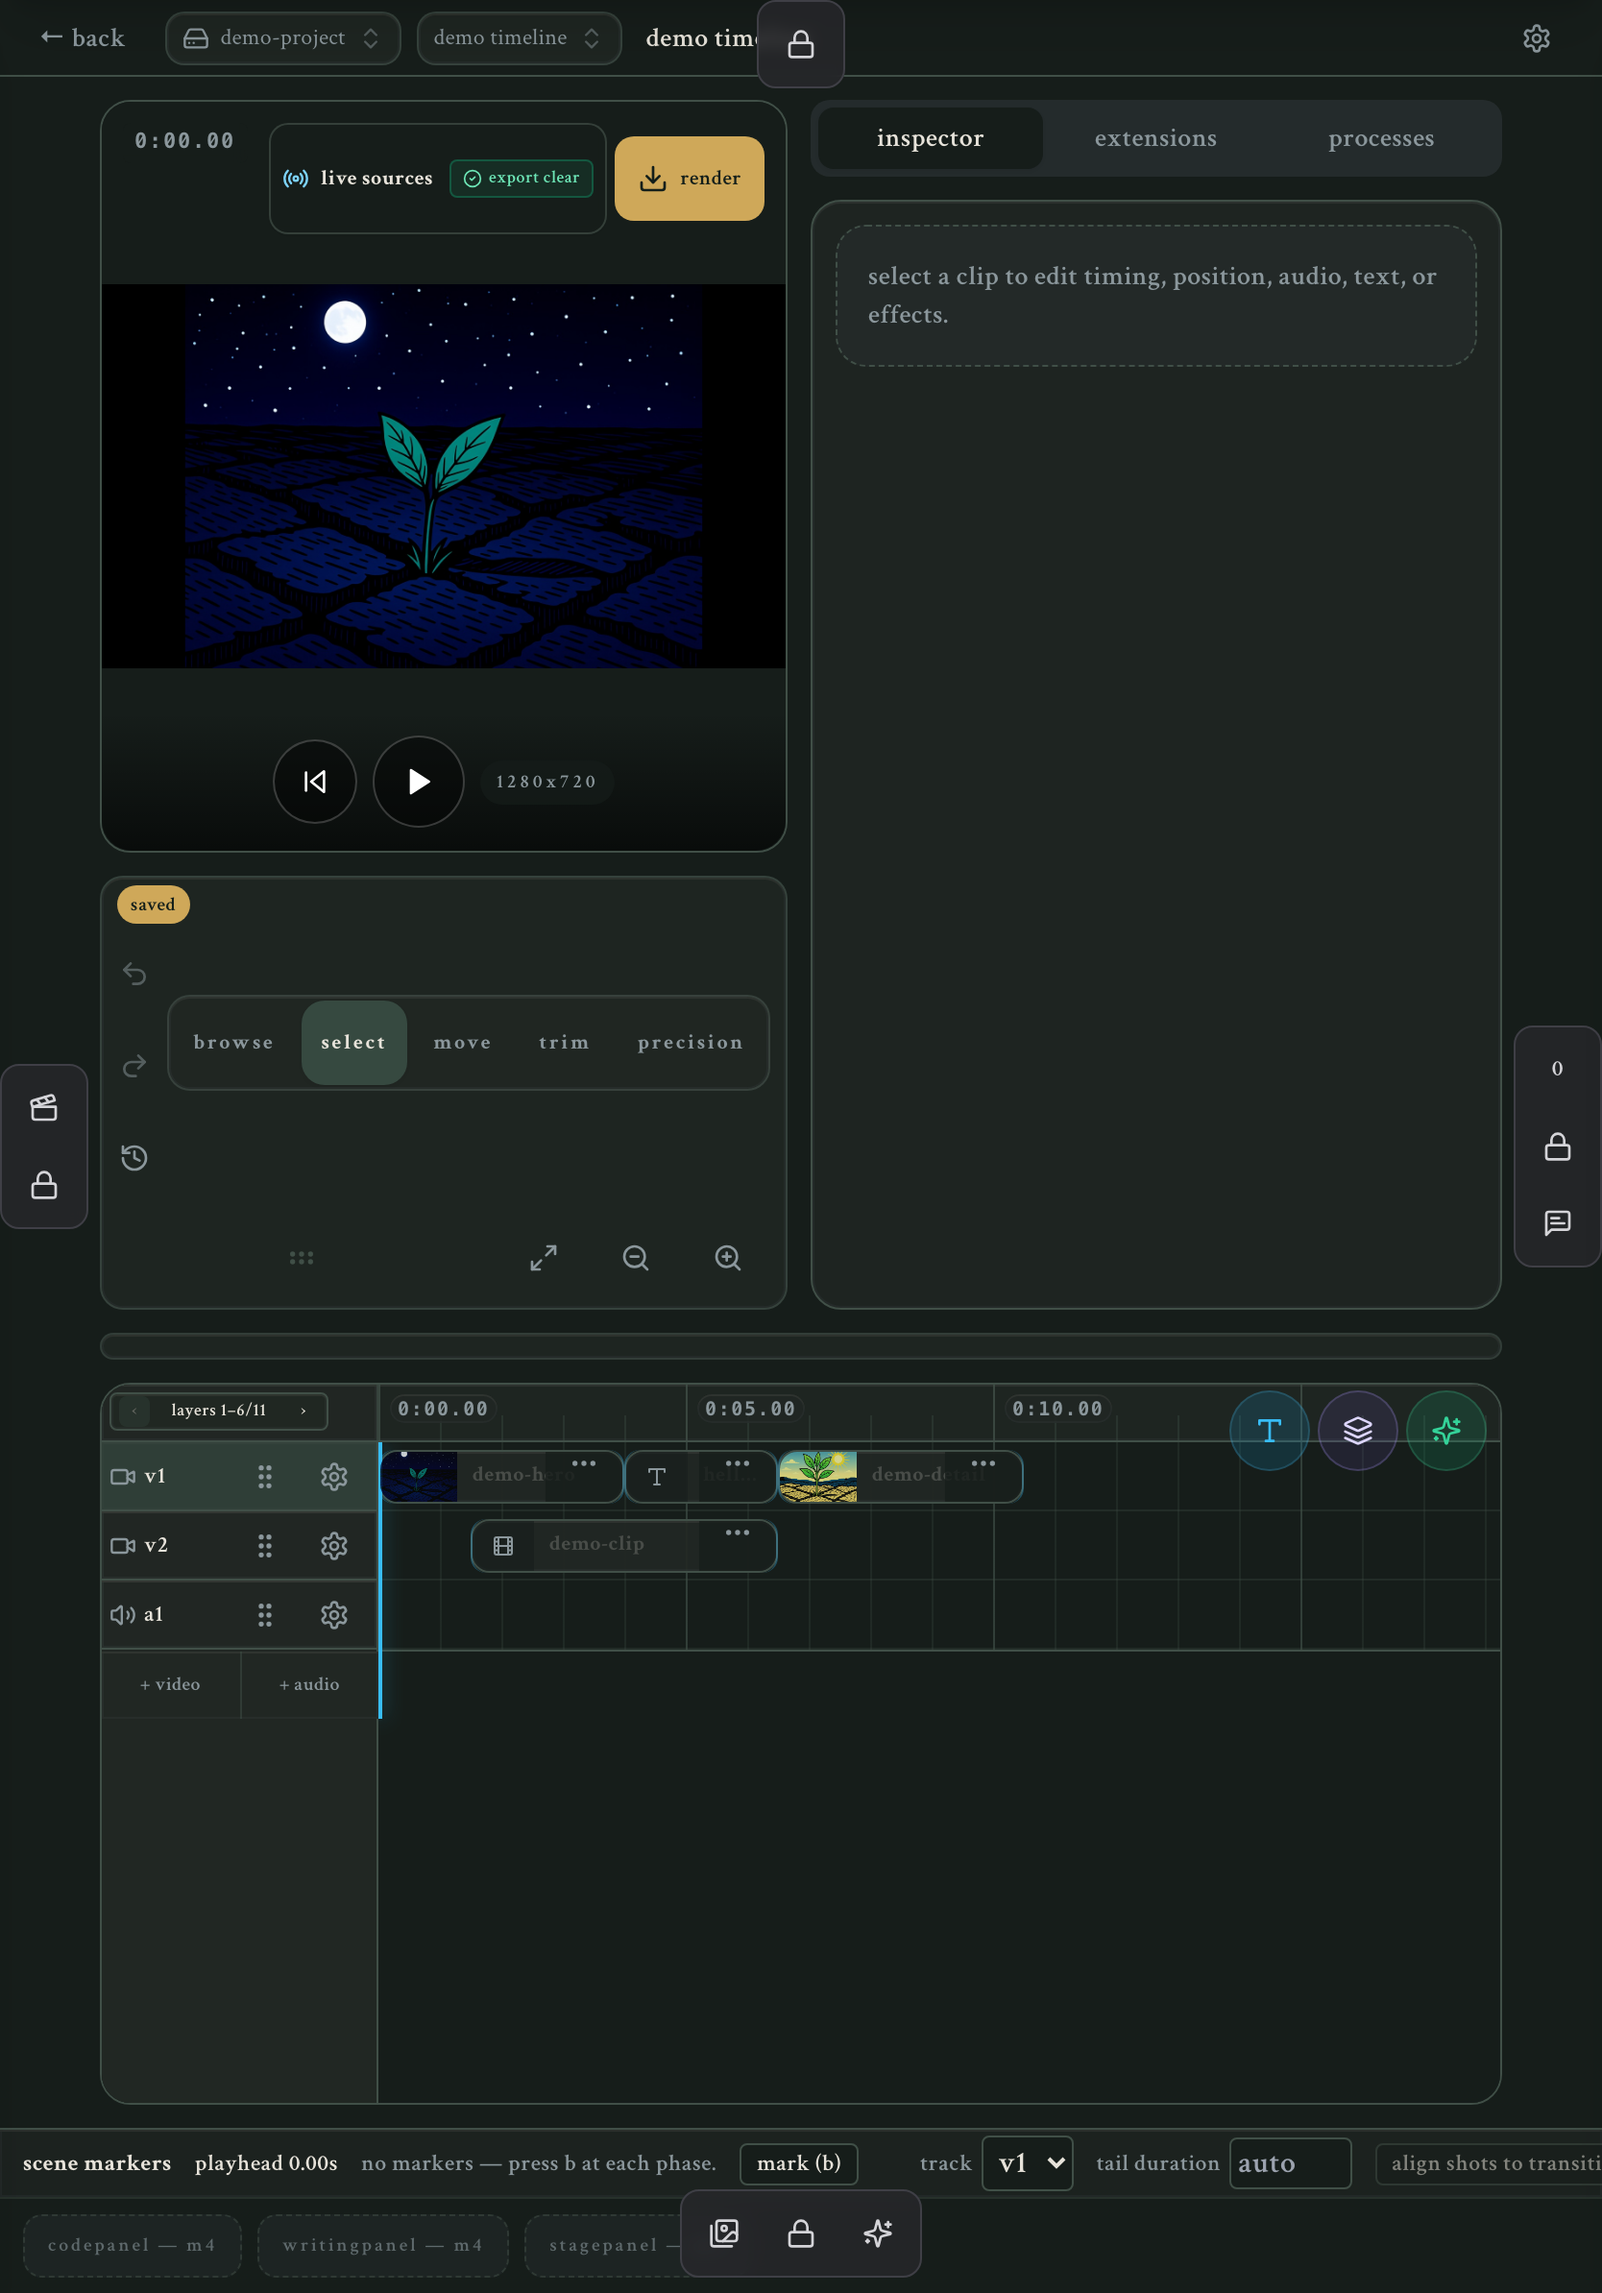
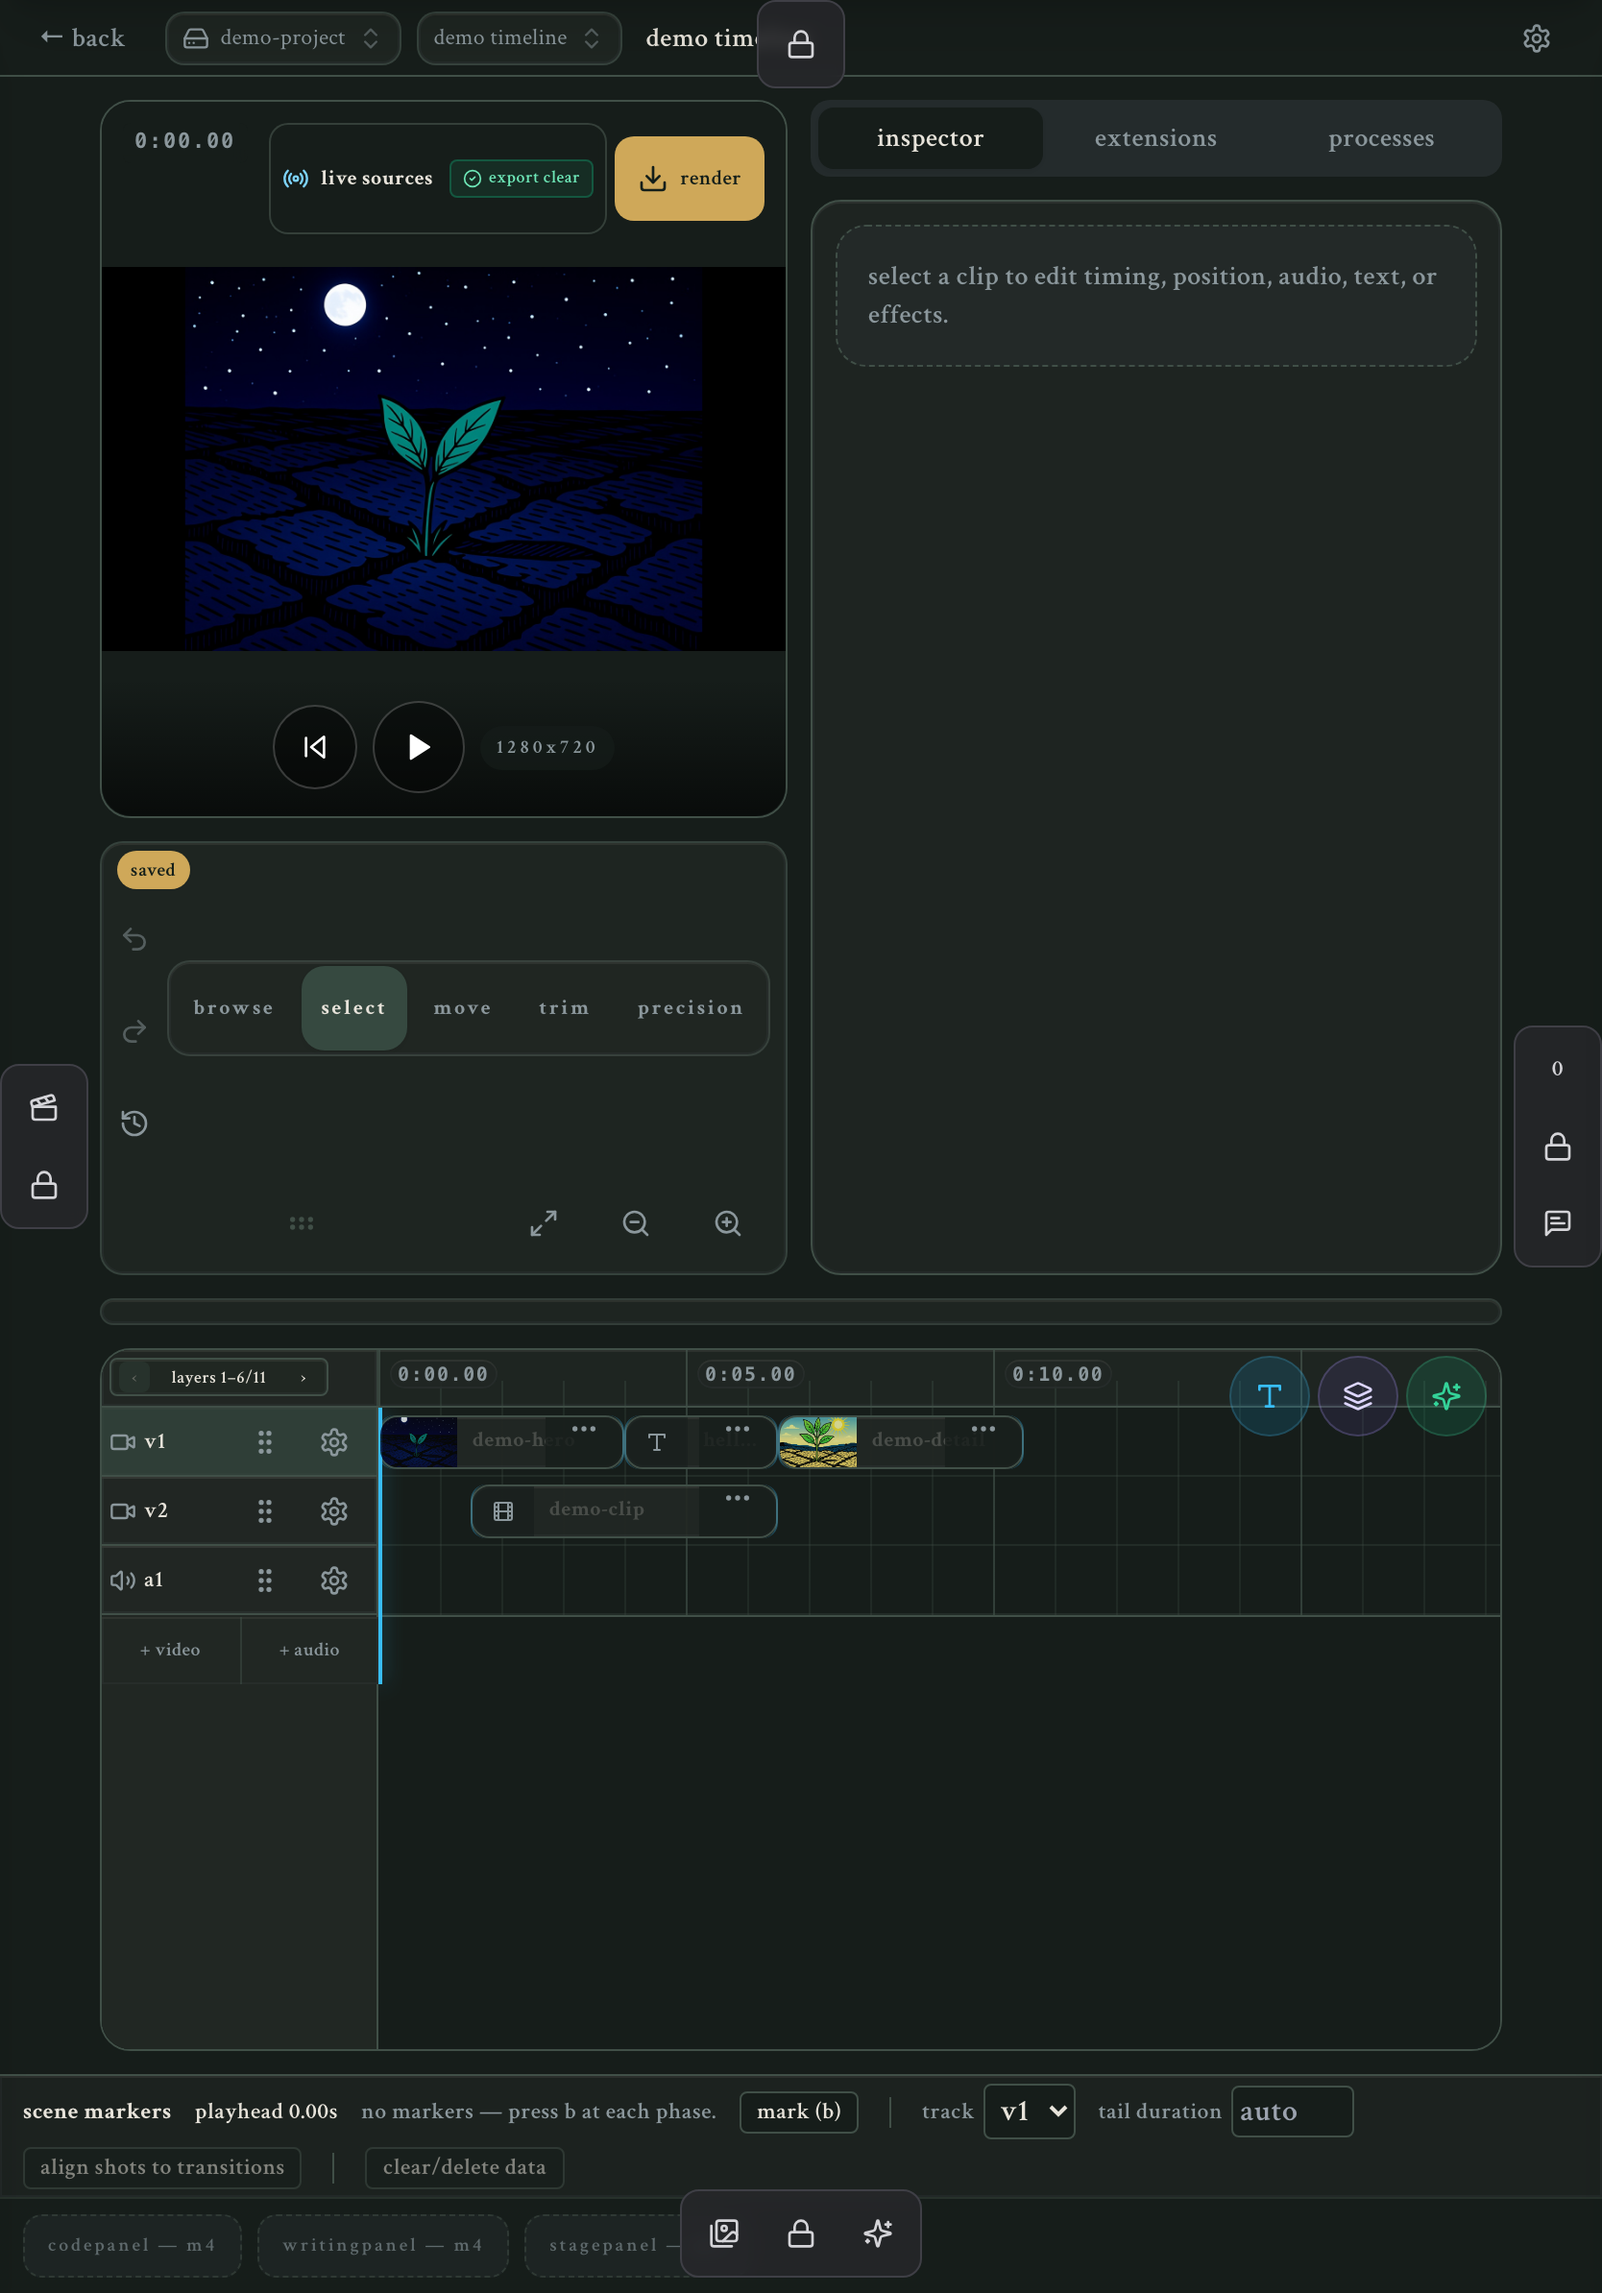
Wrap scene marker controls on narrow editors

diff --git a/src/tools/video-editor/dev/scene-phase-markers/ScenePhaseMarkersPanel.tsx b/src/tools/video-editor/dev/scene-phase-markers/ScenePhaseMarkersPanel.tsx
@@ -15,8 +15,12 @@
  * host's render context (for the live playhead).
  */
 
-import { useState } from 'react';
-import type { ExtensionContext, TimelinePatch, TimelineSnapshot } from '@reigh/editor-sdk';
+import { useState } from "react";
+import type {
+  ExtensionContext,
+  TimelinePatch,
+  TimelineSnapshot,
+} from "@reigh/editor-sdk";
 import {
   alignShotsToTransitions,
   buildMarkersPatch,
@@ -26,58 +30,73 @@ import {
   readTimelineSnapshot,
   visualClips,
   visualTrackIds,
-} from './extension';
+} from "./extension";
 
 export interface ScenePhaseMarkersPanelProps {
   ctx: ExtensionContext;
   playback: { currentTime: number };
 }
 
-const BUTTON_CLASS = 'rounded border border-border bg-background px-2 py-0.5 text-foreground hover:bg-accent disabled:cursor-not-allowed disabled:opacity-50';
-const SELECT_CLASS = 'rounded border border-border bg-background px-1 py-0.5 text-foreground';
-const INPUT_CLASS = 'w-16 rounded border border-border bg-background px-1 py-0.5 text-foreground';
-const LABEL_CLASS = 'flex items-center gap-1 text-muted-foreground';
+const BUTTON_CLASS =
+  "rounded border border-border bg-background px-2 py-0.5 text-foreground hover:bg-accent disabled:cursor-not-allowed disabled:opacity-50";
+const SELECT_CLASS =
+  "rounded border border-border bg-background px-1 py-0.5 text-foreground";
+const INPUT_CLASS =
+  "w-16 rounded border border-border bg-background px-1 py-0.5 text-foreground";
+const LABEL_CLASS = "flex items-center gap-1 text-muted-foreground";
 
-export function ScenePhaseMarkersPanel({ ctx, playback }: ScenePhaseMarkersPanelProps) {
+export function ScenePhaseMarkersPanel({
+  ctx,
+  playback,
+}: ScenePhaseMarkersPanelProps) {
   // Playhead for the B-key command is read renderer-independently from the
   // provider-owned `ctx.creative.timelineView` store — no module cache.
 
   const extensionId = ctx.extension.id;
   // Hooks must be unconditional (before the snapshot guard) so the component
   // does not change hook count when the timeline transitions not-ready→ready.
-  const [selectedTrackId, setSelectedTrackId] = useState('');
-  const [durationInput, setDurationInput] = useState('');
+  const [selectedTrackId, setSelectedTrackId] = useState("");
+  const [durationInput, setDurationInput] = useState("");
 
   const snapshot = readTimelineSnapshot(ctx);
   const markers = snapshot ? readMarkers(snapshot, extensionId) : [];
   if (!snapshot) {
     return (
-      <div className="flex h-9 flex-nowrap items-center gap-3 overflow-x-auto whitespace-nowrap border-t border-border bg-card/60 px-3 text-xs text-muted-foreground">
+      <div
+        className="flex min-h-9 w-full min-w-0 max-w-full flex-wrap items-center gap-x-3 gap-y-1 overflow-x-clip border-t border-border bg-card/60 px-3 py-1 text-xs text-muted-foreground xl:h-9 xl:flex-nowrap xl:gap-y-0 xl:overflow-x-auto xl:whitespace-nowrap xl:py-0"
+        data-testid="scene-markers-panel"
+      >
         <span className="font-semibold text-foreground">Scene Markers</span>
-        <span>Timeline not ready — markers will appear here once it loads.</span>
+        <span>
+          Timeline not ready — markers will appear here once it loads.
+        </span>
       </div>
     );
   }
   const tracks = visualTrackIds(snapshot);
   const clips = visualClips(snapshot);
 
-  const effectiveTrackId = tracks.includes(selectedTrackId) ? selectedTrackId : (tracks[0] ?? 'V1');
+  const effectiveTrackId = tracks.includes(selectedTrackId)
+    ? selectedTrackId
+    : (tracks[0] ?? "V1");
   const durationSeconds = Number.parseFloat(durationInput);
-  const effectiveDuration = Number.isFinite(durationSeconds) ? durationSeconds : 0;
+  const effectiveDuration = Number.isFinite(durationSeconds)
+    ? durationSeconds
+    : 0;
 
   function runPatch(patch: TimelinePatch, okMessage: string): boolean {
     try {
       ctx.creative.timeline.apply(patch);
-      ctx.chrome.toast(okMessage, 'info');
+      ctx.chrome.toast(okMessage, "info");
       return true;
     } catch (error) {
       const message = error instanceof Error ? error.message : String(error);
       ctx.services.diagnostics.report({
-        severity: 'error',
-        code: 'scene-phase-markers/panel-error',
+        severity: "error",
+        code: "scene-phase-markers/panel-error",
         message,
       });
-      ctx.chrome.toast(`Scene Phase Markers: ${message}`, 'error');
+      ctx.chrome.toast(`Scene Phase Markers: ${message}`, "error");
       return false;
     }
   }
@@ -100,14 +119,22 @@ export function ScenePhaseMarkersPanel({ ctx, playback }: ScenePhaseMarkersPanel
     }
     if (!fresh) {
       ctx.services.diagnostics.report({
-        severity: 'error',
-        code: 'scene-phase-markers/panel-error',
-        message: 'Timeline data is not ready — cannot clear markers.',
+        severity: "error",
+        code: "scene-phase-markers/panel-error",
+        message: "Timeline data is not ready — cannot clear markers.",
       });
-      ctx.chrome.toast('Scene Phase Markers: timeline not ready — cannot clear.', 'error');
+      ctx.chrome.toast(
+        "Scene Phase Markers: timeline not ready — cannot clear.",
+        "error",
+      );
       return;
     }
-    if (runPatch(buildMarkersPatch(extensionId, [], fresh.baseVersion), 'Cleared all scene phase markers.')) {
+    if (
+      runPatch(
+        buildMarkersPatch(extensionId, [], fresh.baseVersion),
+        "Cleared all scene phase markers.",
+      )
+    ) {
       notifyMarkersChanged();
     }
   }
@@ -122,18 +149,24 @@ export function ScenePhaseMarkersPanel({ ctx, playback }: ScenePhaseMarkersPanel
     } catch (error) {
       const message = error instanceof Error ? error.message : String(error);
       ctx.services.diagnostics.report({
-        severity: 'error',
-        code: 'scene-phase-markers/align-error',
+        severity: "error",
+        code: "scene-phase-markers/align-error",
         message,
       });
-      ctx.chrome.toast(`Scene Phase Markers: ${message}`, 'error');
+      ctx.chrome.toast(`Scene Phase Markers: ${message}`, "error");
     }
   }
 
   return (
-    <div className="flex h-9 flex-nowrap items-center gap-x-3 overflow-x-auto whitespace-nowrap border-t border-border bg-card/60 px-3 text-xs">
+    <div
+      className="flex min-h-9 w-full min-w-0 max-w-full flex-wrap items-center gap-x-3 gap-y-1 overflow-x-clip border-t border-border bg-card/60 px-3 py-1 text-xs xl:h-9 xl:flex-nowrap xl:gap-y-0 xl:overflow-x-auto xl:whitespace-nowrap xl:py-0"
+      data-testid="scene-markers-panel"
+    >
       <span className="font-semibold text-foreground">Scene Markers</span>
-      <span className="tabular-nums text-foreground" data-testid="scene-markers-playhead">
+      <span
+        className="tabular-nums text-foreground"
+        data-testid="scene-markers-playhead"
+      >
         Playhead {playback.currentTime.toFixed(2)}s
       </span>
       <span
@@ -141,8 +174,8 @@ export function ScenePhaseMarkersPanel({ ctx, playback }: ScenePhaseMarkersPanel
         data-testid="scene-markers-summary"
       >
         {markers.length === 0
-          ? 'No markers — press B at each phase.'
-          : `${markers.length} marker${markers.length === 1 ? '' : 's'} — drag them on the ruler.`}
+          ? "No markers — press B at each phase."
+          : `${markers.length} marker${markers.length === 1 ? "" : "s"} — drag them on the ruler.`}
       </span>
       <button
         type="button"
@@ -163,7 +196,9 @@ export function ScenePhaseMarkersPanel({ ctx, playback }: ScenePhaseMarkersPanel
           onChange={(event) => setSelectedTrackId(event.target.value)}
         >
           {tracks.map((trackId) => (
-            <option key={trackId} value={trackId}>{trackId}</option>
+            <option key={trackId} value={trackId}>
+              {trackId}
+            </option>
           ))}
         </select>
       </label>
@@ -189,15 +224,16 @@ export function ScenePhaseMarkersPanel({ ctx, playback }: ScenePhaseMarkersPanel
         data-testid="scene-markers-align-transitions"
         title={
           clips.length > 0
-            ? 'Move existing shots to their transition markers, each lasting until the next marker.'
-            : 'Create a shot between each pair of transition markers, each lasting until the next marker.'
+            ? "Move existing shots to their transition markers, each lasting until the next marker."
+            : "Create a shot between each pair of transition markers, each lasting until the next marker."
         }
       >
         Align shots to transitions
       </button>
       {clips.length === 0 && markers.length > 0 && (
         <span className="text-muted-foreground">
-          Creates {markers.length} shot{markers.length === 1 ? '' : 's'} between transitions
+          Creates {markers.length} shot{markers.length === 1 ? "" : "s"} between
+          transitions
         </span>
       )}
 

diff --git a/tests/e2e/timeline/shell-responsive-overflow.spec.ts b/tests/e2e/timeline/shell-responsive-overflow.spec.ts
@@ -153,6 +153,7 @@ for (const viewport of VIEWPORTS) {
           phoneModeBar: rect('[aria-label="Phone timeline mode bar"]'),
           compactModeBar: rect('[aria-label="Timeline mode switcher"]'),
           markerPager: rect('[data-testid="timeline-marker-layer-legend"]'),
+          sceneMarkersPanel: rect('[data-testid="scene-markers-panel"]'),
           editArea: rect(".timeline-canvas-edit-area"),
           preview: rect('[data-testid="video-editor-preview-surface"]'),
           selectors: Array.from(
@@ -162,6 +163,24 @@ for (const viewport of VIEWPORTS) {
           ).map((element) => {
             const box = element.getBoundingClientRect();
             return { left: Math.round(box.left), right: Math.round(box.right) };
+          }),
+          sceneMarkerControls: Array.from(
+            document.querySelectorAll(
+              '[data-testid="scene-markers-panel"] button, [data-testid="scene-markers-panel"] select, [data-testid="scene-markers-panel"] input',
+            ),
+          ).map((element) => {
+            const box = element.getBoundingClientRect();
+            return {
+              label:
+                element.getAttribute("data-testid") ??
+                element.getAttribute("aria-label") ??
+                element.textContent?.trim() ??
+                element.tagName,
+              left: Math.round(box.left),
+              top: Math.round(box.top),
+              right: Math.round(box.right),
+              bottom: Math.round(box.bottom),
+            };
           }),
         };
       });
@@ -179,11 +198,25 @@ for (const viewport of VIEWPORTS) {
         geometry.editArea,
         geometry.preview,
         geometry.markerPager,
+        geometry.sceneMarkersPanel,
       ]) {
         expect(region, JSON.stringify(geometry)).not.toBeNull();
         expect(region!.x, JSON.stringify(geometry)).toBeGreaterThanOrEqual(0);
         expect(region!.right, JSON.stringify(geometry)).toBeLessThanOrEqual(
           viewport.width,
+        );
+      }
+      expect(geometry.sceneMarkerControls).toHaveLength(5);
+      for (const control of geometry.sceneMarkerControls) {
+        expect(control.left, JSON.stringify(geometry)).toBeGreaterThanOrEqual(
+          0,
+        );
+        expect(control.top, JSON.stringify(geometry)).toBeGreaterThanOrEqual(0);
+        expect(control.right, JSON.stringify(geometry)).toBeLessThanOrEqual(
+          viewport.width,
+        );
+        expect(control.bottom, JSON.stringify(geometry)).toBeLessThanOrEqual(
+          viewport.height,
         );
       }
       for (const selector of geometry.selectors) {
@@ -210,6 +243,11 @@ for (const viewport of VIEWPORTS) {
           geometry.compactModeBar!.right,
           JSON.stringify(geometry),
         ).toBeLessThanOrEqual(viewport.width);
+      }
+      if (viewport.name === "desktop") {
+        expect(geometry.sceneMarkersPanel!.height).toBeLessThanOrEqual(36);
+      } else {
+        expect(geometry.sceneMarkersPanel!.height).toBeGreaterThan(36);
       }
 
       const layerComposition = await auditMarkerLayerPages(page);
